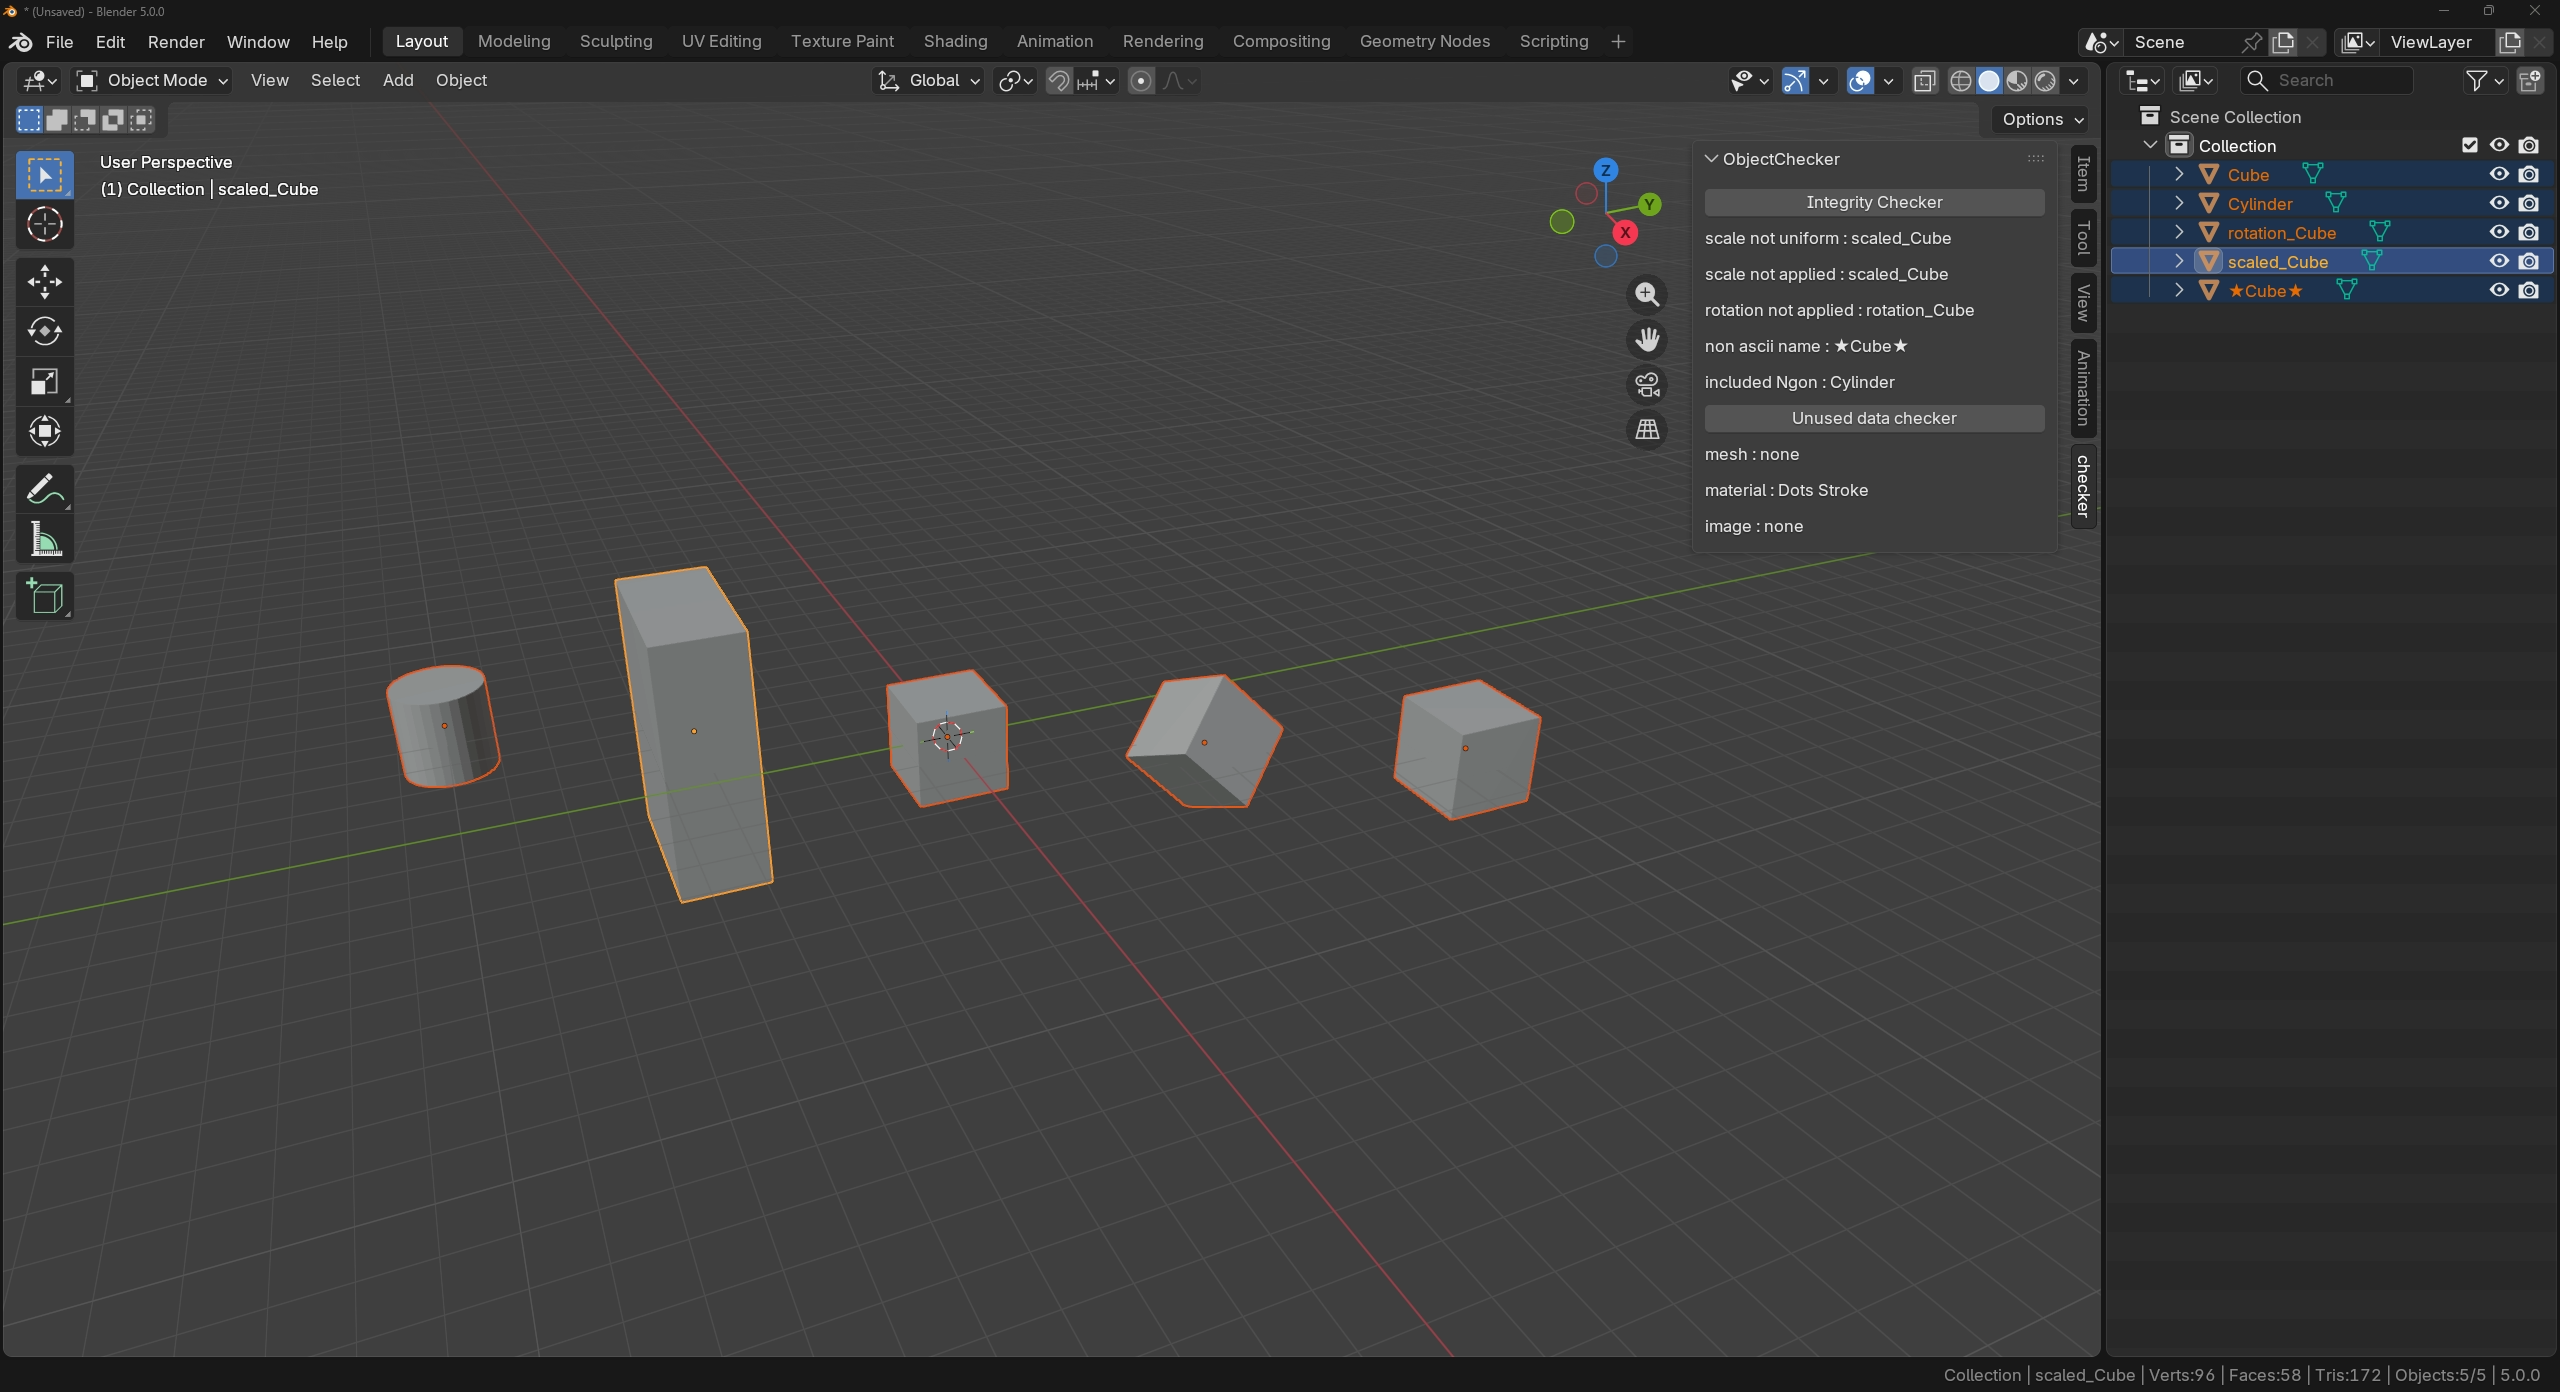
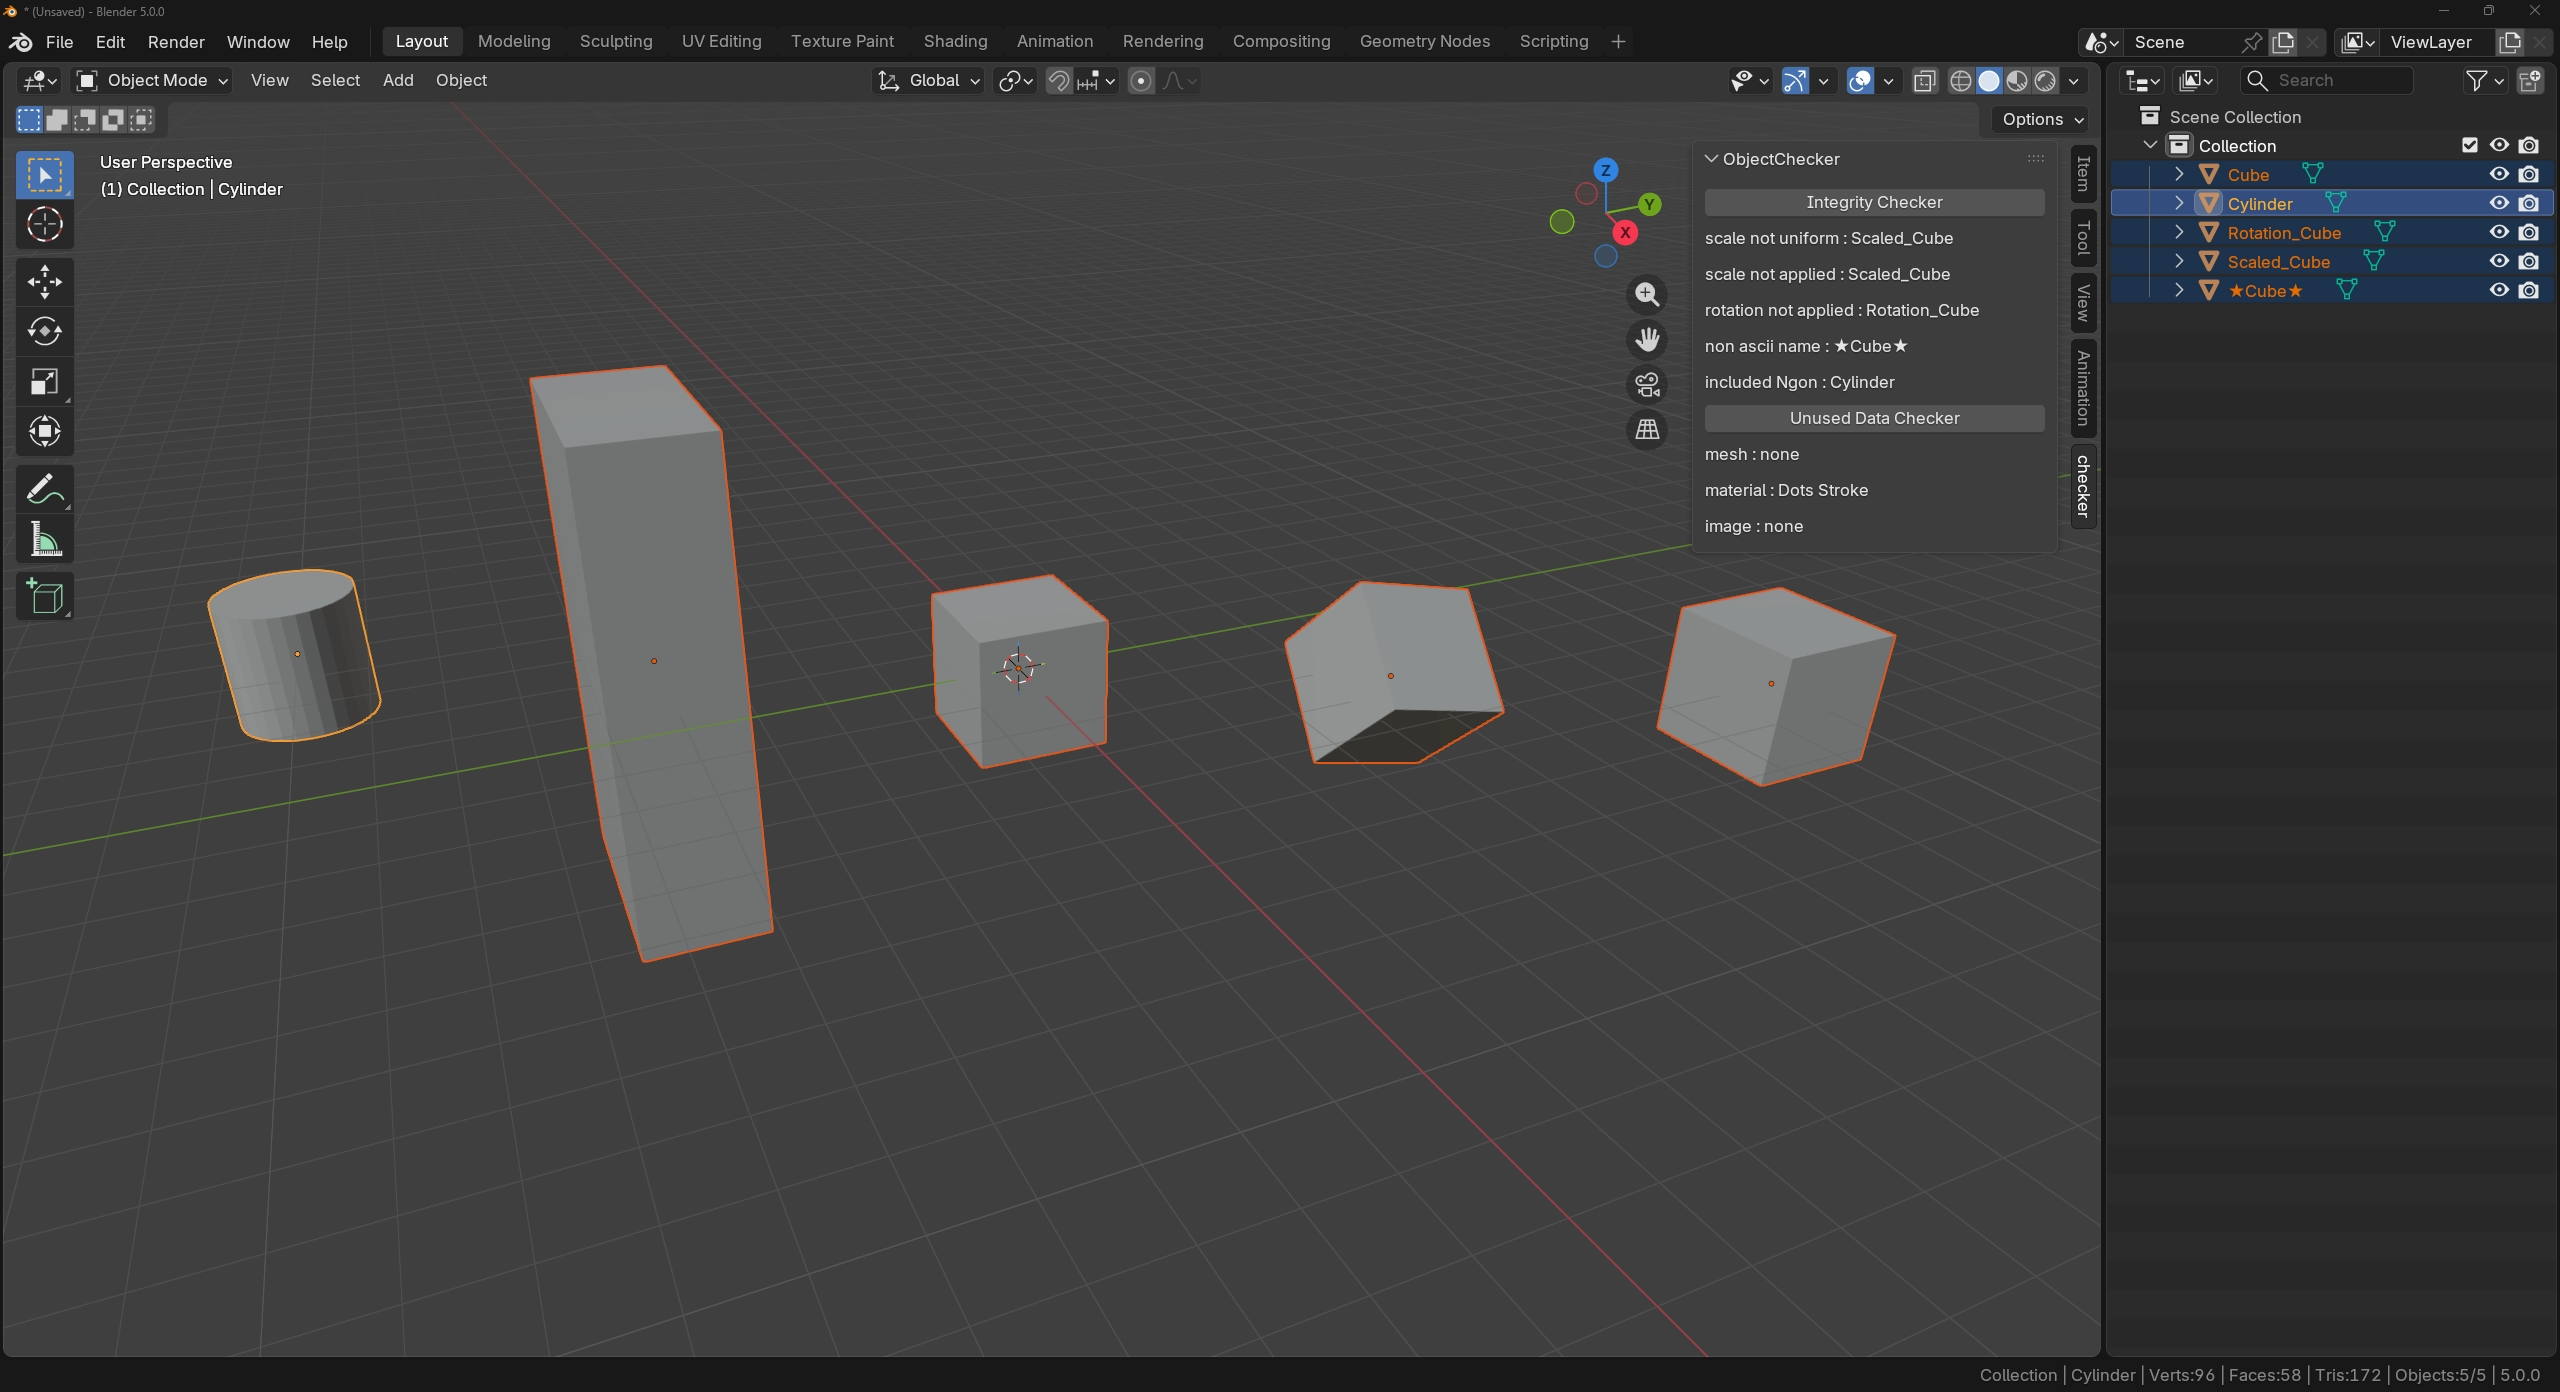
パネルの表示の統一

diff --git a/__init__.py b/__init__.py
@@ -89,7 +89,7 @@ class OBJECT_OT_integrity_checker(bpy.types.Operator):
 
 class OBJECT_OT_unused_data_checker(bpy.types.Operator):
     bl_idname = "object.data_checker"
-    bl_label =  "Unused data checker"
+    bl_label =  "Unused Data Checker"
     bl_description = "I'll check if there is any unused data"
     bl_options = {"REGISTER"}
 
